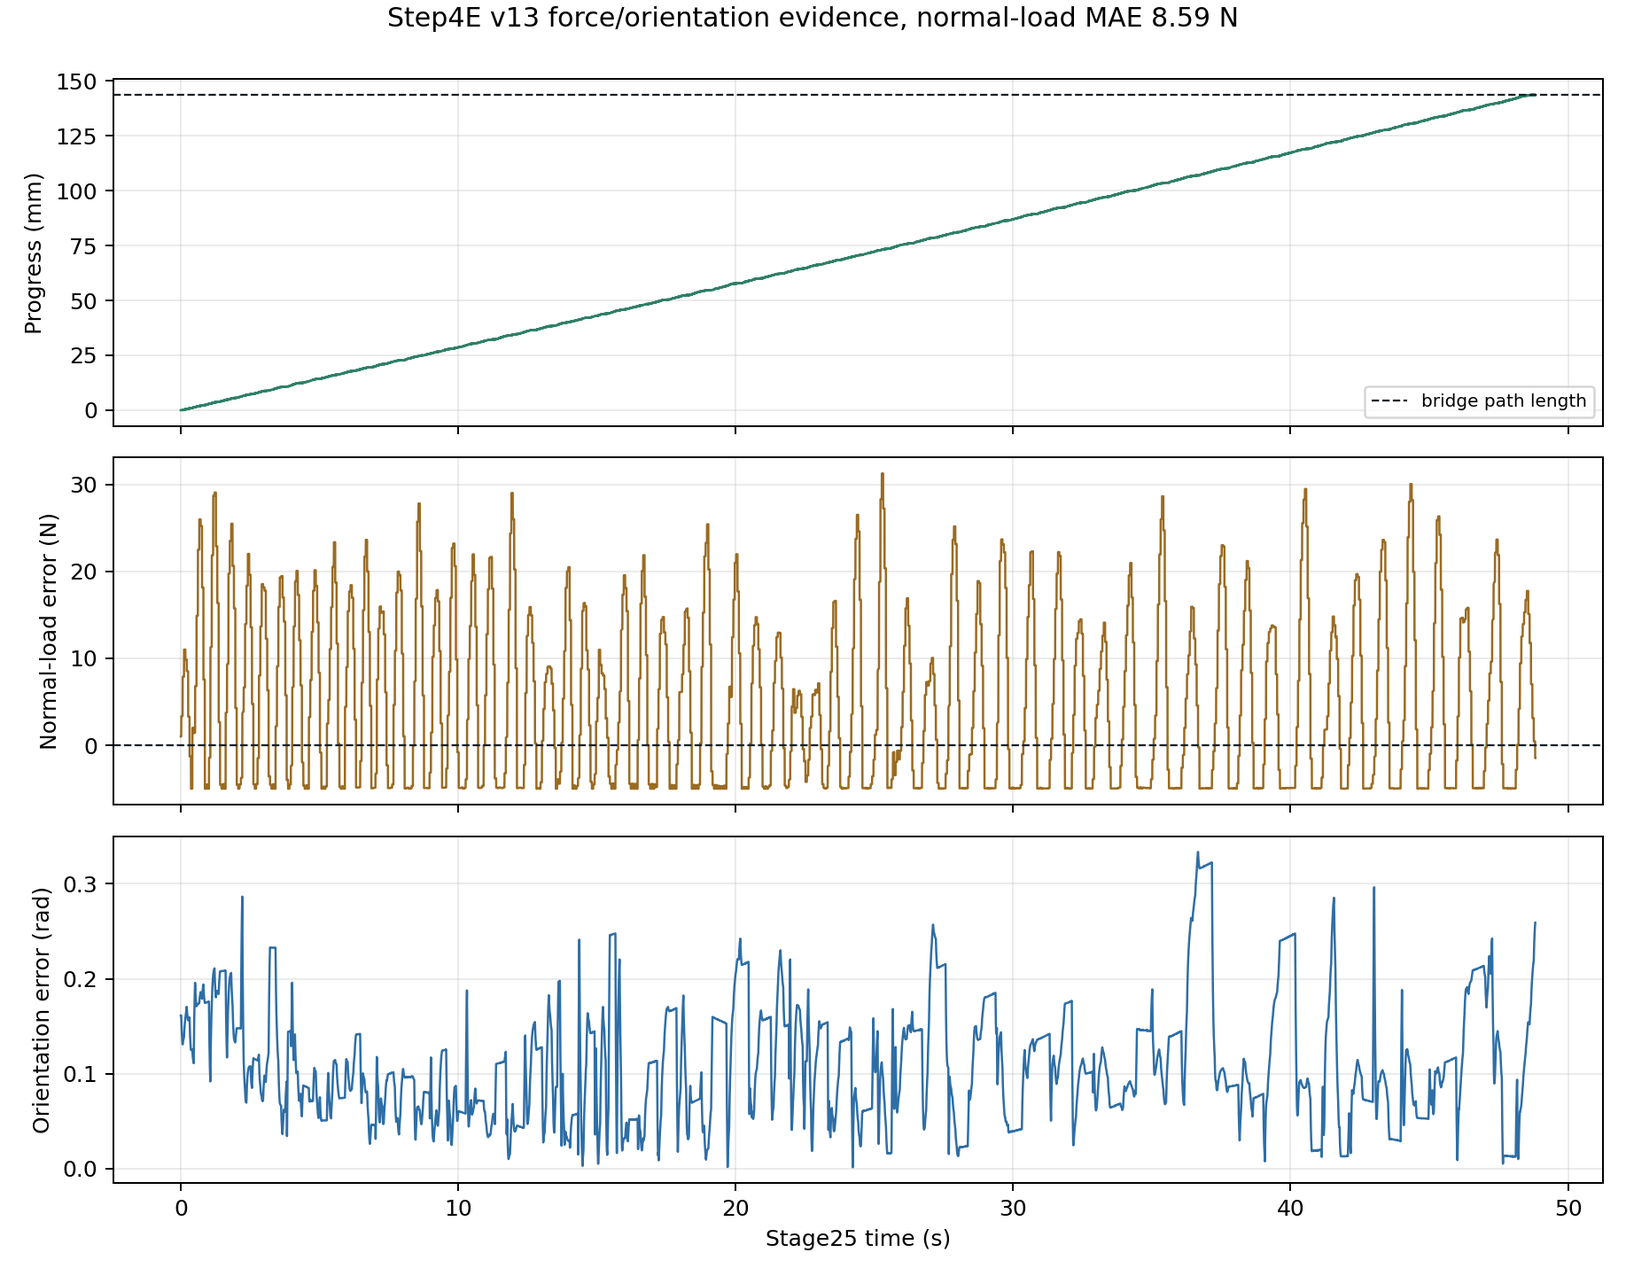
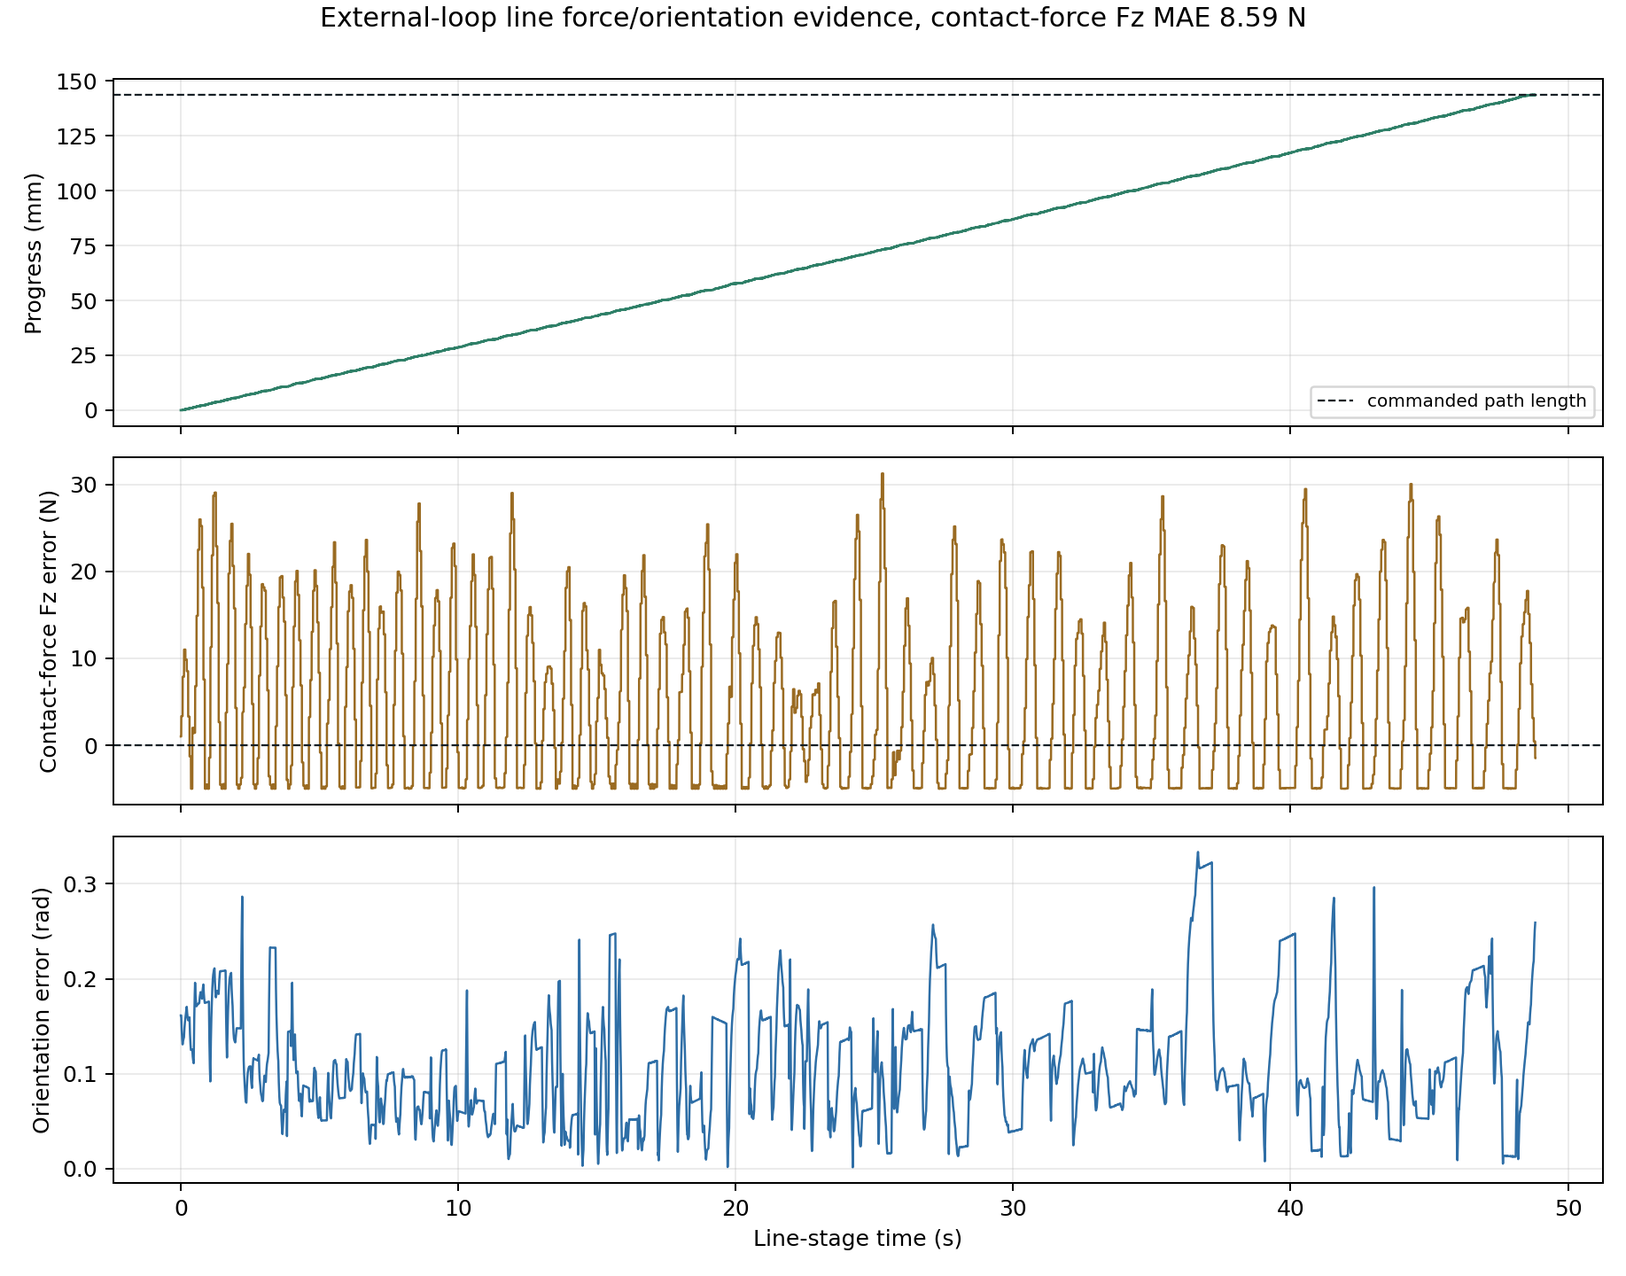
Move sensor comparison to front of Kunwei deck

diff --git a/weekly_meeting/kunwei_kwr75_meeting_deck_20260608.html b/weekly_meeting/kunwei_kwr75_meeting_deck_20260608.html
@@ -155,94 +155,27 @@
 <body>
   <nav>
     <a href="#summary">Summary</a>
-    <a href="#link">1 kHz Link</a>
-    <a href="#step2c">Step2C</a>
-    <a href="#step4d">Step4D</a>
-    <a href="#step4e">Line Demo</a>
     <a href="#compare">600 s Compare</a>
     <a href="#long-compare">6 h Compare</a>
+    <a href="#link">1 kHz Link</a>
+    <a href="#step2c">Straight Line</a>
+    <a href="#step4d">Circle Demo</a>
+    <a href="#step4e">Line Demo</a>
     <a href="#next">Next</a>
   </nav>
   <main>
     <section id="summary">
       <div class="eyebrow">Kunwei KWR75 / UR10e</div>
       <h1>Kunwei force sensor progress report</h1>
-      <p class="lead">Kunwei is no longer just a bring-up task: the TCP raw logging path has a stable 19 h 15 min run, Step2C has completed a closed-loop straight-line contact task, Step4D has completed the first full contact circle, and the latest external-loop line-following demo completed with unload, retract, and home-return evidence. The OnRobot/Kunwei comparison in this deck uses existing logs only, with first-value software zero inside each selected window.</p>
+      <p class="lead">Kunwei is no longer just a bring-up task: the TCP raw logging path has a stable 19 h 15 min run, the straight-line contact run completed with improved force tracking, the first full contact circle completed, and the latest external-loop line-following demo completed with unload, retract, and home-return evidence. The OnRobot/Kunwei comparison in this deck uses existing logs only, with first-value software zero inside each selected window.</p>
       <div class="grid">
         <div class="metric"><span>Long raw capture</span><strong>69.3M samples</strong></div>
         <div class="metric"><span>Average raw rate</span><strong>999.990 Hz</strong></div>
         <div class="metric"><span>Frame errors</span><strong>0 parse / 0 sync</strong></div>
-        <div class="metric"><span>Step2C final echo</span><strong>489.8 Hz</strong></div>
-        <div class="metric"><span>Step4D closure</span><strong>0.828 mm</strong></div>
+        <div class="metric"><span>Line echo</span><strong>489.8 Hz</strong></div>
+        <div class="metric"><span>Circle closure</span><strong>0.828 mm</strong></div>
         <div class="metric"><span>Line demo</span><strong>143.6 mm</strong></div>
         <div class="metric"><span>Long comparison</span><strong>6 h selected</strong></div>
-      </div>
-    </section>
-    <section id="link">
-      <div class="eyebrow">Sensor link</div>
-      <h2>1 kHz TCP logging is stable for the current bench</h2>
-      <p>The 19 h 15 min no-motion run received converted Kunwei frames continuously over TCP. This validates the current Ubuntu collection path, but it is not a 24 h run and it is not a device-side zero/tare calibration.</p>
-      <div class="grid">
-        <div class="metric"><span>Duration</span><strong>19.257 h</strong></div>
-        <div class="metric"><span>Fz last-first</span><strong>0.0457 N</strong></div>
-        <div class="metric"><span>Fz std</span><strong>0.0146 N</strong></div>
-        <div class="metric"><span>Samples</span><strong>69,325,059</strong></div>
-      </div>
-    </section>
-    <section id="step2c">
-      <div class="eyebrow">Robot experiment</div>
-      <h2>Step2C final holds ~490 Hz measured echo and improves force tracking</h2>
-      <p>The selected final run keeps measured stage25 echo cadence at 489.83 Hz while reducing Fz error MAE from V4's 1.87 N to 1.39 N. RTDE logging stays near 500 Hz and Kunwei raw stage25 remains near 1007.59 Hz. This is measured URScript echo/motion-gate evidence, not a claim about the internal servo loop.</p>
-      <div class="grid">
-        <div class="metric"><span>Line outcome</span><strong>complete</strong></div>
-        <div class="metric"><span>Stage25 echo</span><strong>489.83 Hz</strong></div>
-        <div class="metric"><span>RTDE log</span><strong>507.53 Hz</strong></div>
-        <div class="metric"><span>Kunwei raw</span><strong>1007.59 Hz</strong></div>
-        <div class="metric"><span>Final Fz MAE</span><strong>1.39 N</strong></div>
-        <div class="metric"><span>Final XY p95</span><strong>0.080 mm</strong></div>
-        <div class="metric"><span>V4 Fz MAE</span><strong>1.87 N</strong></div>
-        <div class="metric"><span>Old echo</span><strong>246.55 Hz</strong></div>
-        <figure class="span-7"><img src="assets/kunwei_kwr75_20260608/step2c_final_fz_tracking.png" alt="Step2C final force tracking"><figcaption>Fig. 1. Final Fz tracking keeps the mean near target and reduces error relative to V4.</figcaption></figure>
-        <figure class="span-5"><img src="assets/kunwei_kwr75_20260608/step2c_final_tradeoff.png" alt="Step2C final tradeoff chart"><figcaption>Fig. 2. Final keeps the cadence/path improvement and lowers Fz MAE versus V4.</figcaption></figure>
-        <figure class="span-12"><img src="assets/kunwei_kwr75_20260608/step2c_final_path_tracking.png" alt="Step2C final path tracking"><figcaption>Fig. 3. Final path tracking remains tight; XY p95 is about 0.080 mm.</figcaption></figure>
-        <figure class="span-5 media-video"><video controls preload="metadata" poster="assets/kunwei_kwr75_20260608/step2c_final_experiment_poster.jpg" src="assets/kunwei_kwr75_20260608/step2c_final_experiment.mp4"></video><figcaption>Fig. F-A. Step2C final experiment evidence clip from the 2026-06-08 Step2C final run.</figcaption></figure>
-      </div>
-    </section>
-    <section id="step4d">
-      <div class="eyebrow">Robot experiment</div>
-      <h2>Step4D completes a full contact circle with attitude admittance</h2>
-      <p>Step4D uses the middle half of the prior contact path as the circle diameter, then runs deterministic contact search, signed-Fz velocity admittance, and bounded wx/wy attitude admittance while UR handles IK through Cartesian speedl twist. The selected run reached circle_complete with 99.875 mm arc progress, 0.828 mm closure error, and 0.111 mm radial p95. This is circular-contact scaffold evidence, not a same-task ranking against Step2C straight-line force quality.</p>
-      <div class="grid">
-        <div class="metric"><span>Circle outcome</span><strong>full circle</strong></div>
-        <div class="metric"><span>Stage25 echo</span><strong>490.72 Hz</strong></div>
-        <div class="metric"><span>Radius</span><strong>15.895 mm</strong></div>
-        <div class="metric"><span>Arc progress</span><strong>99.875 mm</strong></div>
-        <div class="metric"><span>Closure error</span><strong>0.828 mm</strong></div>
-        <div class="metric"><span>Radial p95</span><strong>0.111 mm</strong></div>
-        <div class="metric"><span>Normal MAE</span><strong>2.22 N</strong></div>
-        <div class="metric"><span>Torque p95</span><strong>0.120 Nm</strong></div>
-        <figure class="span-6"><img src="assets/kunwei_kwr75_20260608/step4d_circle_path_tracking.png" alt="Step4D circle path tracking"><figcaption>Fig. 4. Actual TCP path closes the commanded full-circle contact trajectory; closure error is 0.828 mm.</figcaption></figure>
-        <figure class="span-6"><img src="assets/kunwei_kwr75_20260608/step4d_circle_force_path.png" alt="Step4D force and path evidence"><figcaption>Fig. 5. Normal-force ripple remains the next target; radial path tracking is already tight for this first complete circle.</figcaption></figure>
-        <figure class="span-5 media-video"><video controls preload="metadata" poster="assets/kunwei_kwr75_20260608/step4d_circle_experiment_poster.jpg" src="assets/kunwei_kwr75_20260608/step4d_circle_experiment.mp4"></video><figcaption>Fig. 6. Step4D phone video evidence from the 2026-06-09 demo drop.</figcaption></figure>
-      </div>
-    </section>
-    <section id="step4e">
-      <div class="eyebrow">Robot experiment</div>
-      <h2>External-loop line-following demo completes and returns home</h2>
-      <p>This demo reproduces the paper-style architecture in a small straight-line task: Python computes Cartesian correction commands from the Kunwei wrench and measured TCP pose, while the UR controller executes those commands and handles IK through speedl. The run crossed the 143.247 mm success threshold, reached 143.618 mm max progress, kept XY path-error p95 at 0.138 mm, then unloaded, retracted, and returned home. The line-following part is successful demo evidence; normal-load Fz control still needs tuning.</p>
-      <div class="grid">
-        <div class="metric"><span>Line outcome</span><strong>complete</strong></div>
-        <div class="metric"><span>Stage25 echo</span><strong>249.23 Hz</strong></div>
-        <div class="metric"><span>Path progress</span><strong>143.618 mm</strong></div>
-        <div class="metric"><span>XY p95</span><strong>0.138 mm</strong></div>
-        <div class="metric"><span>Fz MAE</span><strong>8.59 N</strong></div>
-        <div class="metric"><span>Fz p95 abs</span><strong>22.49 N</strong></div>
-        <div class="metric"><span>Finish reason</span><strong>complete 1</strong></div>
-        <div class="metric"><span>Retract/home</span><strong>observed</strong></div>
-        <figure class="span-6"><img src="assets/kunwei_kwr75_20260608/step4e_v13_line_path_tracking.png" alt="External-loop line path tracking"><figcaption>Fig. 7. Actual TCP path follows the commanded line; path-error p95 is 0.138 mm.</figcaption></figure>
-        <figure class="span-6"><img src="assets/kunwei_kwr75_20260608/step4e_v13_line_fz_error.png" alt="External-loop line normal-load Fz error"><figcaption>Fig. 8. Normal-load Fz error is the remaining tuning problem: MAE is 8.59 N and p95 absolute error is 22.49 N.</figcaption></figure>
-        <figure class="span-7"><img src="assets/kunwei_kwr75_20260608/step4e_v13_line_force_progress.png" alt="External-loop line force and progress evidence"><figcaption>Fig. 9. Path progress crosses the success threshold while force and attitude behavior show what still needs tuning.</figcaption></figure>
-        <figure class="span-5 media-video"><video controls preload="metadata" poster="assets/kunwei_kwr75_20260608/step4e_v13_line_experiment_poster.jpg" src="assets/kunwei_kwr75_20260608/step4e_v13_line_experiment.mp4"></video><figcaption>Fig. 10. Phone video evidence for the completed external-loop line demo.</figcaption></figure>
       </div>
     </section>
     <section id="compare">
@@ -269,19 +202,86 @@
         <figure class="span-12"><img src="assets/kunwei_kwr75_20260608/sixh_onrobot_kunwei_force_std.png" alt="6 h force standard deviation"><figcaption>Fig. 6. Force-axis standard deviation over the selected 6 h window.</figcaption></figure>
       </div>
     </section>
+    <section id="link">
+      <div class="eyebrow">Sensor link</div>
+      <h2>1 kHz TCP logging is stable for the current bench</h2>
+      <p>The 19 h 15 min no-motion run received converted Kunwei frames continuously over TCP. This validates the current Ubuntu collection path, but it is not a 24 h run and it is not a device-side zero/tare calibration.</p>
+      <div class="grid">
+        <div class="metric"><span>Duration</span><strong>19.257 h</strong></div>
+        <div class="metric"><span>Fz last-first</span><strong>0.0457 N</strong></div>
+        <div class="metric"><span>Fz std</span><strong>0.0146 N</strong></div>
+        <div class="metric"><span>Samples</span><strong>69,325,059</strong></div>
+      </div>
+    </section>
+    <section id="step2c">
+      <div class="eyebrow">Straight-line contact</div>
+      <h2>Straight-line contact run holds ~490 Hz measured echo and improves force tracking</h2>
+      <p>The selected final run keeps measured line-stage echo cadence at 489.83 Hz while reducing Fz error MAE from the prior high-cadence run's 1.87 N to 1.39 N. RTDE logging stays near 500 Hz and Kunwei raw line-stage sampling remains near 1007.59 Hz. This is measured URScript echo/motion-gate evidence, not a claim about the internal servo loop.</p>
+      <div class="grid">
+        <div class="metric"><span>Line outcome</span><strong>complete</strong></div>
+        <div class="metric"><span>Line echo</span><strong>489.83 Hz</strong></div>
+        <div class="metric"><span>RTDE log</span><strong>507.53 Hz</strong></div>
+        <div class="metric"><span>Kunwei raw</span><strong>1007.59 Hz</strong></div>
+        <div class="metric"><span>Final Fz MAE</span><strong>1.39 N</strong></div>
+        <div class="metric"><span>Final XY p95</span><strong>0.080 mm</strong></div>
+        <div class="metric"><span>Prior Fz MAE</span><strong>1.87 N</strong></div>
+        <div class="metric"><span>Previous echo</span><strong>246.55 Hz</strong></div>
+        <figure class="span-7"><img src="assets/kunwei_kwr75_20260608/step2c_final_fz_tracking.png" alt="Straight-line contact force tracking"><figcaption>Fig. 1. Final Fz tracking keeps the mean near target and reduces error relative to the prior high-cadence run.</figcaption></figure>
+        <figure class="span-5"><img src="assets/kunwei_kwr75_20260608/step2c_final_tradeoff.png" alt="Straight-line contact tradeoff chart"><figcaption>Fig. 2. Final keeps the cadence/path improvement and lowers Fz MAE relative to the prior high-cadence run.</figcaption></figure>
+        <figure class="span-12"><img src="assets/kunwei_kwr75_20260608/step2c_final_path_tracking.png" alt="Straight-line contact path tracking"><figcaption>Fig. 3. Final path tracking remains tight; XY p95 is about 0.080 mm.</figcaption></figure>
+        <figure class="span-5 media-video"><video controls preload="metadata" poster="assets/kunwei_kwr75_20260608/step2c_final_experiment_poster.jpg" src="assets/kunwei_kwr75_20260608/step2c_final_experiment.mp4"></video><figcaption>Fig. 4. Phone video evidence from the final straight-line contact run.</figcaption></figure>
+      </div>
+    </section>
+    <section id="step4d">
+      <div class="eyebrow">Circular contact</div>
+      <h2>Full contact circle completes with attitude admittance</h2>
+      <p>The circle demo uses the middle half of the prior contact path as the circle diameter, then runs deterministic contact search, signed-Fz velocity admittance, and bounded wx/wy attitude admittance while UR handles IK through Cartesian speedl twist. The selected run completed the circle with 99.875 mm arc progress, 0.828 mm closure error, and 0.111 mm radial p95. This is circular-contact scaffold evidence, not a same-task ranking against the straight-line force-control run.</p>
+      <div class="grid">
+        <div class="metric"><span>Circle outcome</span><strong>full circle</strong></div>
+        <div class="metric"><span>Circle echo</span><strong>490.72 Hz</strong></div>
+        <div class="metric"><span>Radius</span><strong>15.895 mm</strong></div>
+        <div class="metric"><span>Arc progress</span><strong>99.875 mm</strong></div>
+        <div class="metric"><span>Closure error</span><strong>0.828 mm</strong></div>
+        <div class="metric"><span>Radial p95</span><strong>0.111 mm</strong></div>
+        <div class="metric"><span>Contact Fz MAE</span><strong>2.22 N</strong></div>
+        <div class="metric"><span>Torque p95</span><strong>0.120 Nm</strong></div>
+        <figure class="span-6"><img src="assets/kunwei_kwr75_20260608/step4d_circle_path_tracking.png" alt="Full contact circle path tracking"><figcaption>Fig. 5. Actual TCP path closes the commanded full-circle contact trajectory; closure error is 0.828 mm.</figcaption></figure>
+        <figure class="span-6"><img src="assets/kunwei_kwr75_20260608/step4d_circle_force_path.png" alt="Full contact circle force and path evidence"><figcaption>Fig. 6. Contact-force ripple remains the next target; radial path tracking is already tight for this first complete circle.</figcaption></figure>
+        <figure class="span-5 media-video"><video controls preload="metadata" poster="assets/kunwei_kwr75_20260608/step4d_circle_experiment_poster.jpg" src="assets/kunwei_kwr75_20260608/step4d_circle_experiment.mp4"></video><figcaption>Fig. 7. Phone video evidence from the full-circle contact demo.</figcaption></figure>
+      </div>
+    </section>
+    <section id="step4e">
+      <div class="eyebrow">External-loop control</div>
+      <h2>External-loop line-following demo completes and returns home</h2>
+      <p>This demo reproduces the paper-style architecture in a small straight-line task: Python computes Cartesian correction commands from the Kunwei wrench and measured TCP pose, while the UR controller executes those commands and handles IK through speedl. The run crossed the 143.247 mm success threshold, reached 143.618 mm max progress, kept XY path-error p95 at 0.138 mm, then unloaded, retracted, and returned home. The line-following part is successful demo evidence; contact-force Fz control still needs tuning.</p>
+      <div class="grid">
+        <div class="metric"><span>Line outcome</span><strong>complete</strong></div>
+        <div class="metric"><span>Line echo</span><strong>249.23 Hz</strong></div>
+        <div class="metric"><span>Path progress</span><strong>143.618 mm</strong></div>
+        <div class="metric"><span>XY p95</span><strong>0.138 mm</strong></div>
+        <div class="metric"><span>Fz MAE</span><strong>8.59 N</strong></div>
+        <div class="metric"><span>Fz p95 abs</span><strong>22.49 N</strong></div>
+        <div class="metric"><span>Finish reason</span><strong>complete 1</strong></div>
+        <div class="metric"><span>Retract/home</span><strong>observed</strong></div>
+        <figure class="span-6"><img src="assets/kunwei_kwr75_20260608/step4e_v13_line_path_tracking.png" alt="External-loop line path tracking"><figcaption>Fig. 8. Actual TCP path follows the commanded line; path-error p95 is 0.138 mm.</figcaption></figure>
+        <figure class="span-6"><img src="assets/kunwei_kwr75_20260608/step4e_v13_line_fz_error.png" alt="External-loop line contact-force Fz error"><figcaption>Fig. 9. Contact-force Fz error is the remaining tuning problem: MAE is 8.59 N and p95 absolute error is 22.49 N.</figcaption></figure>
+        <figure class="span-7"><img src="assets/kunwei_kwr75_20260608/step4e_v13_line_force_progress.png" alt="External-loop line force and progress evidence"><figcaption>Fig. 10. Path progress crosses the success threshold while force and attitude behavior show what still needs tuning.</figcaption></figure>
+        <figure class="span-5 media-video"><video controls preload="metadata" poster="assets/kunwei_kwr75_20260608/step4e_v13_line_experiment_poster.jpg" src="assets/kunwei_kwr75_20260608/step4e_v13_line_experiment.mp4"></video><figcaption>Fig. 11. Phone video evidence for the completed external-loop line demo.</figcaption></figure>
+      </div>
+    </section>
     <section id="next">
       <div class="eyebrow">Next action</div>
       <h2>Stabilize contact entry before chasing higher frequency</h2>
-      <p>The next Step2C work should confirm repeatability and reduce contact-entry transient after the final-run improvement. The report should keep frequency layers separate: sensor raw stream, bridge/RTDE logging, measured URScript echo cadence, and unvalidated internal servo-loop behavior.</p>
+      <p>The next straight-line contact work should confirm repeatability and reduce contact-entry transient after the final-run improvement. The report should keep frequency layers separate: sensor raw stream, RTDE logging, measured URScript echo cadence, and unvalidated internal servo-loop behavior.</p>
       <div class="grid">
         <table class="span-12">
           <thead><tr><th>Decision</th><th>Current evidence</th><th>Default next move</th></tr></thead>
           <tbody>
             <tr><td>Logging route</td><td>Kunwei TCP raw is stable at 1 kHz class</td><td>Use it as the default Kunwei collector</td></tr>
             <tr><td>Force control</td><td>Final mean Fz is near target and error MAE is 1.39 N</td><td>Confirm repeatability before broader force-quality claims</td></tr>
-            <tr><td>Circle contact</td><td>Step4D completed the full circle with 0.828 mm closure error</td><td>Reduce contact-entry transient and normal-force ripple before stronger algorithm claims</td></tr>
-            <tr><td>External-loop line</td><td>The line-following demo completed, returned home, reached 143.618 mm progress, and kept 0.138 mm XY p95</td><td>Tune normal-load Fz and attitude behavior before stronger force-quality claims</td></tr>
-            <tr><td>Frequency claim</td><td>Final stage25 echo is 489.83 Hz; RTDE logging is 507.53 Hz</td><td>Report measured cadence, not internal servo-loop frequency</td></tr>
+            <tr><td>Circle contact</td><td>The full contact circle completed with 0.828 mm closure error</td><td>Reduce contact-entry transient and contact-force ripple before stronger algorithm claims</td></tr>
+            <tr><td>External-loop line</td><td>The line-following demo completed, returned home, reached 143.618 mm progress, and kept 0.138 mm XY p95</td><td>Tune contact-force Fz and attitude behavior before stronger force-quality claims</td></tr>
+            <tr><td>Frequency claim</td><td>Final line-stage echo is 489.83 Hz; RTDE logging is 507.53 Hz</td><td>Report measured cadence, not internal servo-loop frequency</td></tr>
             <tr><td>A/B comparison</td><td>Existing 600 s and 6 h windows differ in setup/date/load</td><td>Use first-value software zero for this report; reserve same-fixture testing only for future absolute calibration claims</td></tr>
           </tbody>
         </table>
